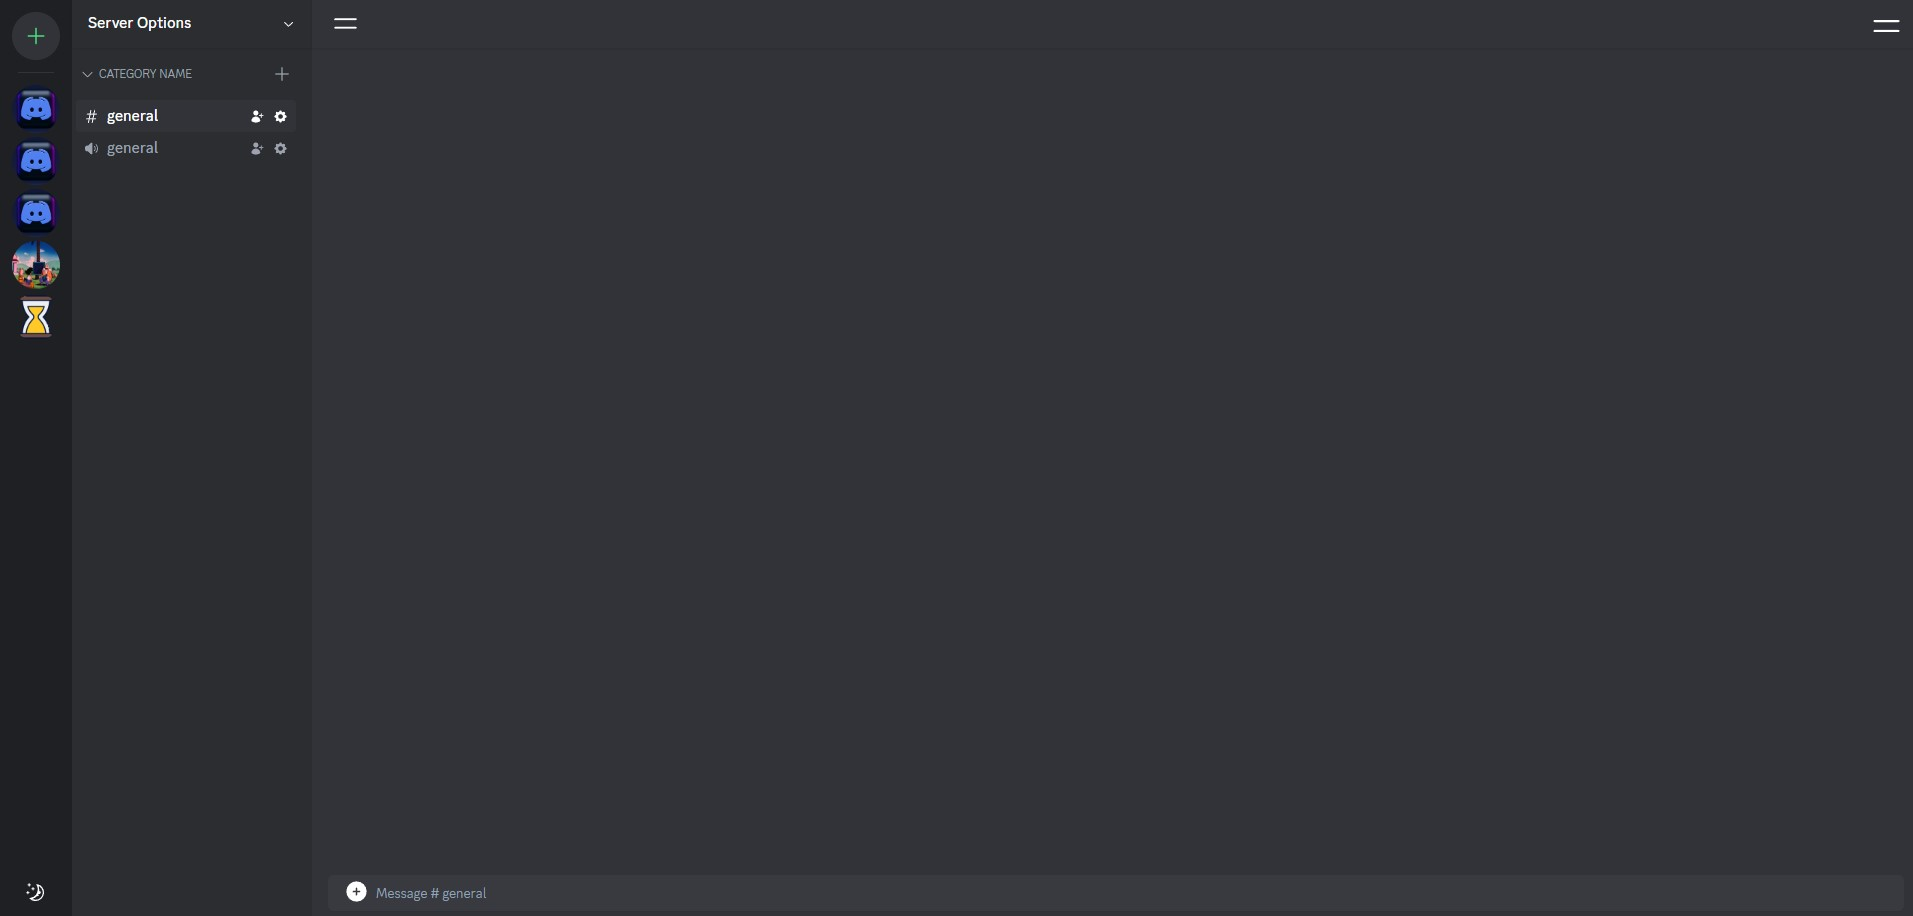
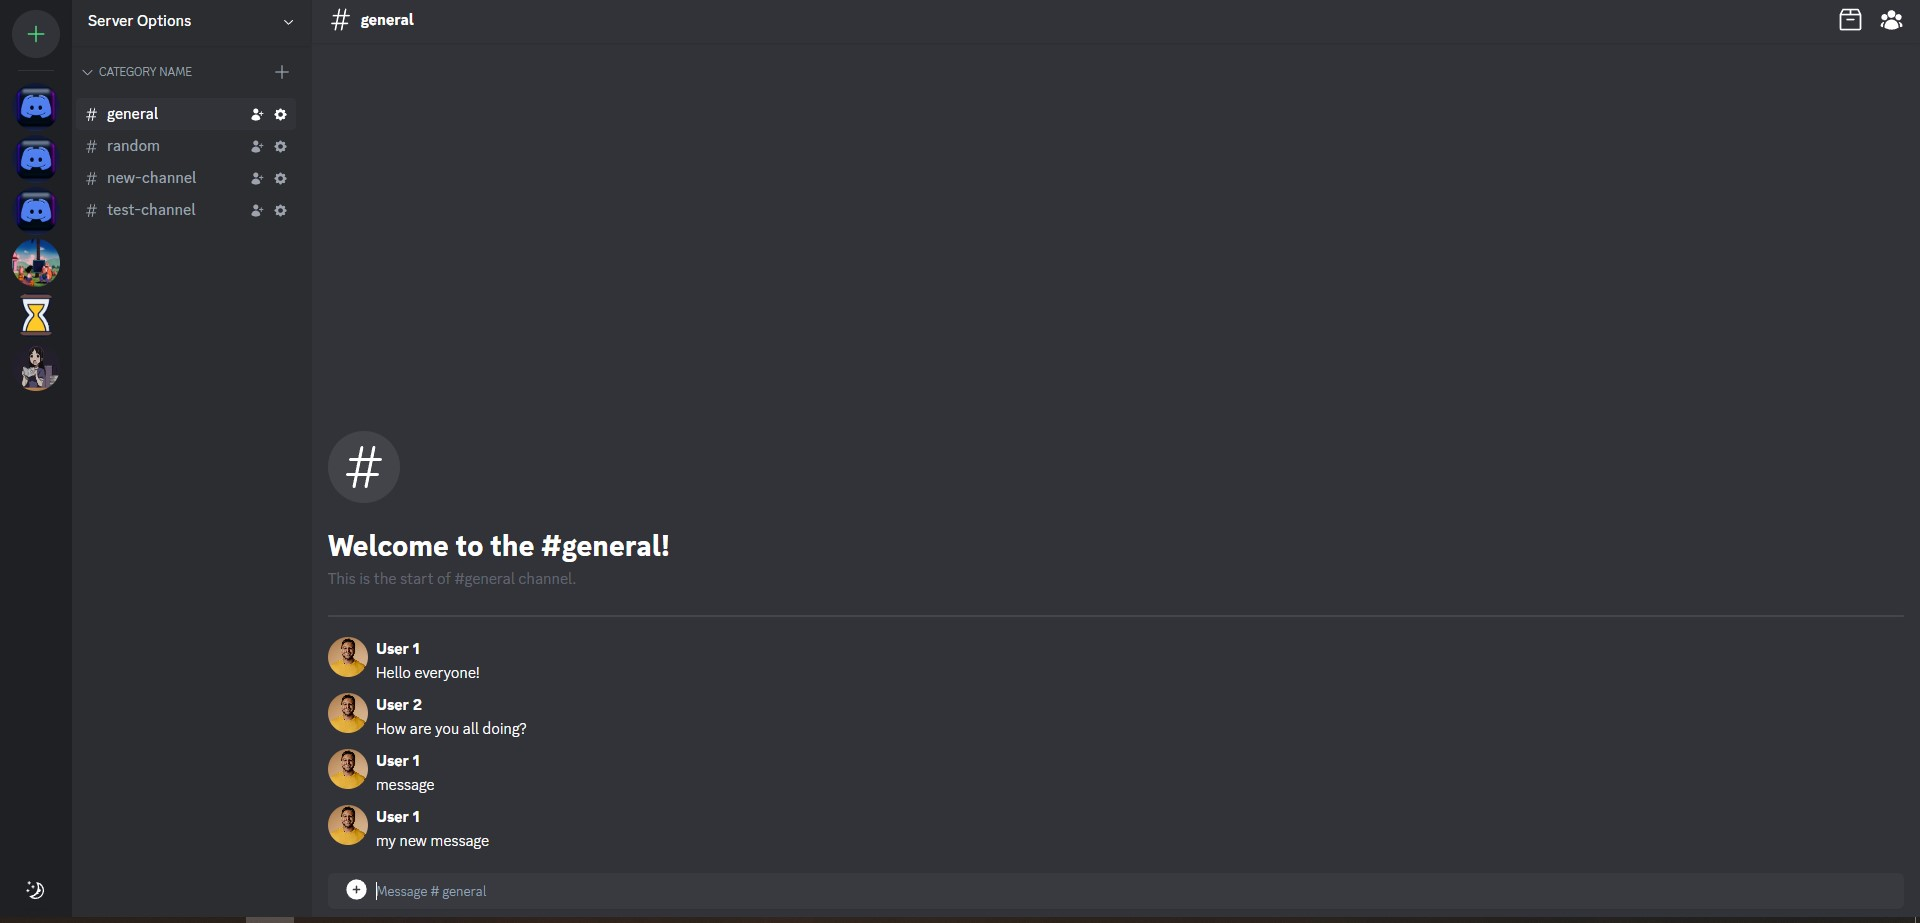
feat: changes to chat area UI

diff --git a/frontend/src/components/discord-ui/TextChannel.tsx b/frontend/src/components/discord-ui/TextChannel.tsx
@@ -1,4 +1,8 @@
-import { Bars2Icon } from "@heroicons/react/24/solid";
+import {
+  Bars2Icon,
+  HashtagIcon,
+  UserGroupIcon,
+} from "@heroicons/react/24/solid";
 import { useEffect, useRef, useState } from "react";
 
 import socket from "../../socket";
@@ -6,6 +10,8 @@ import ChatInput from "./ChatInput";
 import { useParams } from "@tanstack/react-router";
 import { useChannels, usePeers } from "../../hooks/global-store";
 import Messages from "./Messages";
+import { ArchiveIcon } from "@radix-ui/react-icons";
+import { Separator } from "../shadcn/ui";
 
 // TODO: get type interface from a lib folder of types -> zod
 // - append to the current list of chats, instead of getting all the rows -> chat service + chat box set state
@@ -67,8 +73,22 @@ const ChatBox = ({ channel }) => {
       dark:border-b-discord-gray
       dark:text-white"
       >
-        <Bars2Icon height={35} width={35} className="text-center h-full" />
-        <Bars2Icon height={35} width={35} className="text-center" />
+        <div className="inline-flex justify-between gap-2 items-center">
+          <HashtagIcon height={25} width={25} className="text-center h-full" />
+          <span className="font-semibold">{activeChannel.channelName}</span>
+        </div>
+        <div className="inline-flex justify-between gap-4">
+          <ArchiveIcon
+            height={25}
+            width={25}
+            className="text-center h-full cursor-not-allowed"
+          />
+          <UserGroupIcon
+            height={25}
+            width={25}
+            className="text-center h-full cursor-not-allowed"
+          />
+        </div>
       </div>
       {/* <ChatBoxChannel /> */}
 
@@ -82,6 +102,24 @@ const ChatBox = ({ channel }) => {
               <Messages chat={c.chat} userId={c.userId} key={Math.random()} />
             ))
             .reverse()}
+          <div className="p-4">
+            <div className="bg-white w-fit h-[72px] rounded-full dark:bg-gray-300/10 p-3">
+              <HashtagIcon
+                height={38}
+                width={48}
+                className="text-center h-full "
+              />
+            </div>
+            <div className="flex flex-col gap-1 my-6">
+              <span className="text-3xl font-ggSans font-bold">
+                Welcome to the #{activeChannel.channelName}!
+              </span>
+              <span className="text-md font-ggSans font-normal text-slate-300/30">
+                This is the start of #{activeChannel.channelName} channel.
+              </span>
+            </div>
+            <Separator className="dark:bg-gray-200/10 h-[2.5px] rounded-full" />
+          </div>
           <div ref={scrollRef} />
         </div>
         {/* <VoicedChannels /> */}

diff --git a/frontend/src/components/discord-ui/ServerOptionsDropdown.tsx b/frontend/src/components/discord-ui/ServerOptionsDropdown.tsx
@@ -60,6 +60,7 @@ const ServerOptionsDropdown = () => {
         bg-white
         text-discord-blackest
         dark:bg-discord-blackest
+        cursor-not-allowed
         "
       >
         <DropdownMenuItem
@@ -68,7 +69,7 @@ const ServerOptionsDropdown = () => {
           flex px-3 py-2 mx-2 rounded-sm
           text-indigo-600 text-xs  
           hover:bg-indigo-500 hover:text-white
-          cursor-pointer
+          cursor-not-allowed
           "
         >
           Invite People
@@ -81,7 +82,7 @@ const ServerOptionsDropdown = () => {
           flex px-3 py-2 mx-2 rounded-sm
           text-discord-gray dark:text-gray-400 text-xs 
           hover:bg-indigo-500 hover:text-white
-          cursor-pointer
+          cursor-not-allowed
           "
         >
           Server Settings
@@ -94,7 +95,7 @@ const ServerOptionsDropdown = () => {
           flex px-3 py-2 mx-2 rounded-sm
           text-discord-gray dark:text-gray-400 text-xs 
           hover:bg-indigo-500 hover:text-white
-          cursor-pointer
+          cursor-not-allowed
           "
         >
           Create Channel
@@ -107,7 +108,7 @@ const ServerOptionsDropdown = () => {
           flex px-3 py-2 mx-2 rounded-sm
           text-discord-gray dark:text-gray-400 text-xs 
           hover:bg-indigo-500 hover:text-white
-          cursor-pointer
+          cursor-not-allowed
           "
         >
           Create Category
@@ -121,7 +122,7 @@ const ServerOptionsDropdown = () => {
           flex px-3 py-2 mx-2 rounded-sm
           text-discord-gray dark:text-gray-400 text-xs 
           hover:bg-indigo-500 hover:text-white
-          cursor-pointer
+          cursor-not-allowed
           "
         >
           Notification Settings
@@ -133,7 +134,7 @@ const ServerOptionsDropdown = () => {
           flex px-3 py-2 mx-2 rounded-sm
           text-discord-gray dark:text-gray-400 text-xs 
           hover:bg-indigo-500 hover:text-white
-          cursor-pointer
+          cursor-not-allowed
           "
         >
           Privacy Settings
@@ -146,7 +147,7 @@ const ServerOptionsDropdown = () => {
           flex px-3 py-2 mx-2 rounded-sm
           text-discord-gray dark:text-gray-400 text-xs 
           hover:bg-indigo-500 hover:text-white
-          cursor-pointer
+          cursor-not-allowed
           "
         >
           Edit Server Profile
@@ -159,7 +160,7 @@ const ServerOptionsDropdown = () => {
           flex px-3 py-2 mx-2 rounded-sm
           text-red-500 text-xs 
           hover:bg-red-500 hover:text-white
-          cursor-pointer
+          cursor-not-allowed
           "
         >
           {/* If server owner, dont show */}

diff --git a/frontend/src/components/discord-ui/VoicedChannel.tsx b/frontend/src/components/discord-ui/VoicedChannel.tsx
@@ -159,15 +159,15 @@ const VoicedChannel = ({ channel }) => {
           <div className="flex flex-row w-full h-fit justify-center pb-6 gap-4">
             <VideoCameraIcon
               width={55}
-              className="mx-2 bg-discord-gray p-4 rounded-full cursor-pointer hover:bg-discord-blackest"
+              className="mx-2 bg-discord-gray p-4 rounded-full cursor-not-allowed hover:bg-discord-blackest"
             />
             <ComputerDesktopIcon
               width={55}
-              className="mx-2 bg-discord-gray p-4 rounded-full cursor-pointer hover:bg-discord-blackest"
+              className="mx-2 bg-discord-gray p-4 rounded-full cursor-not-allowed hover:bg-discord-blackest"
             />
             <MicrophoneIcon
               width={55}
-              className="mx-2 bg-discord-gray p-4 rounded-full cursor-pointer hover:bg-discord-blackest"
+              className="mx-2 bg-discord-gray p-4 rounded-full cursor-not-allowed hover:bg-discord-blackest"
             />
             <PhoneXMarkIcon
               width={55}

diff --git a/frontend/src/components/layouts/ServerChannels.tsx b/frontend/src/components/layouts/ServerChannels.tsx
@@ -42,7 +42,7 @@ const ServerChannels = () => {
   console.log("serveruuid", serverUUID);
   console.log("asdhajdhas", channelUUID);
   const { onOpen } = useModal();
-  const [collapsed, setCollapsed] = useState(false);
+  const [collapsed, setCollapsed] = useState(true);
   const { activeChannel } = useChannels();
 
   const [channels, setChannels] = useState([]);
@@ -82,10 +82,7 @@ const ServerChannels = () => {
             <div>
               {/* TODO: EVENTS Component*/}
               <Collapsible
-                className="w-full flex flex-col
-            text-discord-gray/75
-            dark:text-gray-400 text-sm
-            "
+                className="w-full flex flex-col text-discord-gray/75 dark:text-gray-400 text-sm "
                 open={collapsed}
                 onOpenChange={setCollapsed}
               >

diff --git a/frontend/src/components/discord-ui/ChatInput.tsx b/frontend/src/components/discord-ui/ChatInput.tsx
@@ -63,6 +63,8 @@ const ChatInput = ({ channelName = " " }) => {
                     className="absolute top-1 left-8
                    text-discord-gray
                    dark:text-white
+                   cursor-not-allowed
+                   
                     "
                   />
                   <Input

diff --git a/frontend/src/components/discord-ui/Messages.tsx b/frontend/src/components/discord-ui/Messages.tsx
@@ -16,7 +16,7 @@ const Messages = ({ userId, chat }) => {
         />
       </div>
       <div className="flex flex-col">
-        <span className="font-semibold">{userId}</span>
+        <span className="font-semibold">User {userId}</span>
         <span className="font-normal">{chat}</span>
       </div>
     </div>

diff --git a/frontend/src/globals.css b/frontend/src/globals.css
@@ -32,6 +32,12 @@
   src: url("/fonts/gg sans Semibold.ttf");
 }
 
+@font-face {
+  font-family: "ggSans";
+  font-weight: 600;
+  src: url("/fonts/gg sans Bold.ttf");
+}
+
 html,
 body :root {
   height: 100%;
